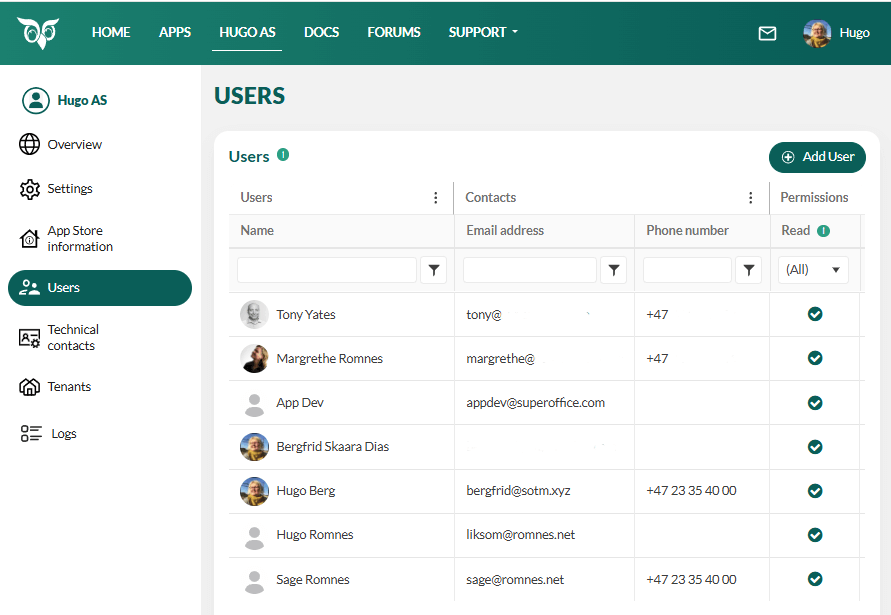
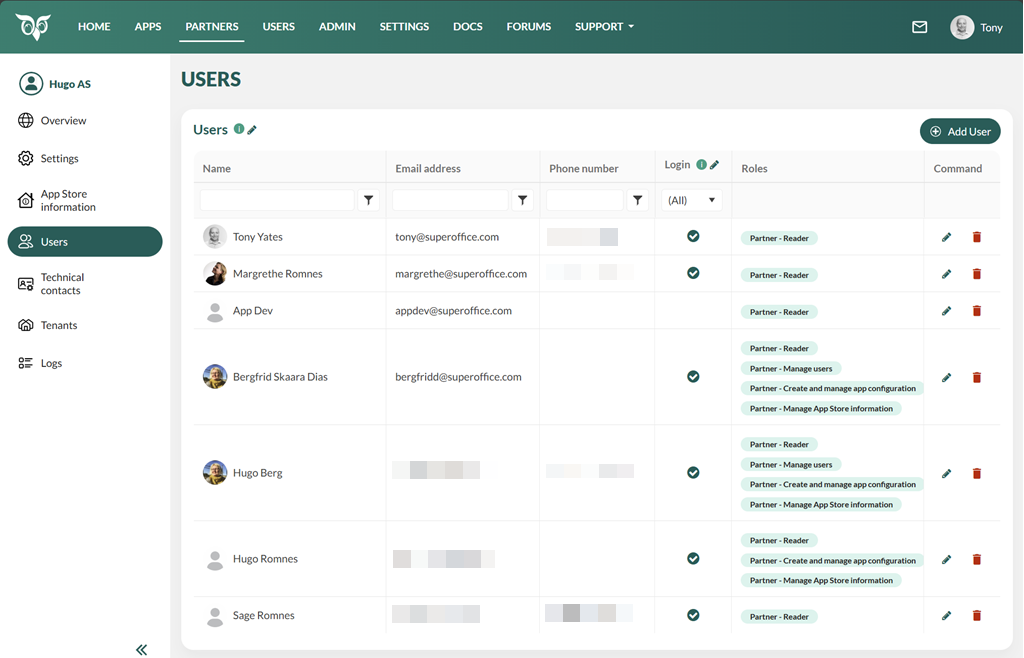
Updated developer portal docs to v2.5

diff --git a/docs/en/developer-portal/partner/manage-permissions.md b/docs/en/developer-portal/partner/manage-permissions.md
@@ -25,12 +25,14 @@ This task requires **User management** permission.
 
 1. In the Developer Portal, go to your partner page.
 2. Select **Users** from the left menu.
-3. Locate the user in the list and click **Edit item**.
-4. To grant a permission, tic the corresponding checkbox. To remove a permission, uncheck it.
+3. Locate the user in the list and click the **Edit pen icon**. The **Edit user roles** dialog appears.
+4. To grant a permission, tick the corresponding checkbox. To remove a permission, uncheck it.
 
     ![Edit permissions -screenshot][img1]
 
-5. Click **Update**.
+    ![Edit user roles -screenshot][img2]
+
+5. Click **Save**.
 
 <!-- markdownlint-disable-file DOCSMD007 -->
 > [!TIP]
@@ -44,3 +46,4 @@ This task requires **User management** permission.
 
 <!-- Referenced images -->
 [img1]: media/edit-permissions.png
+[img2]: media/edit-user-roles.png
